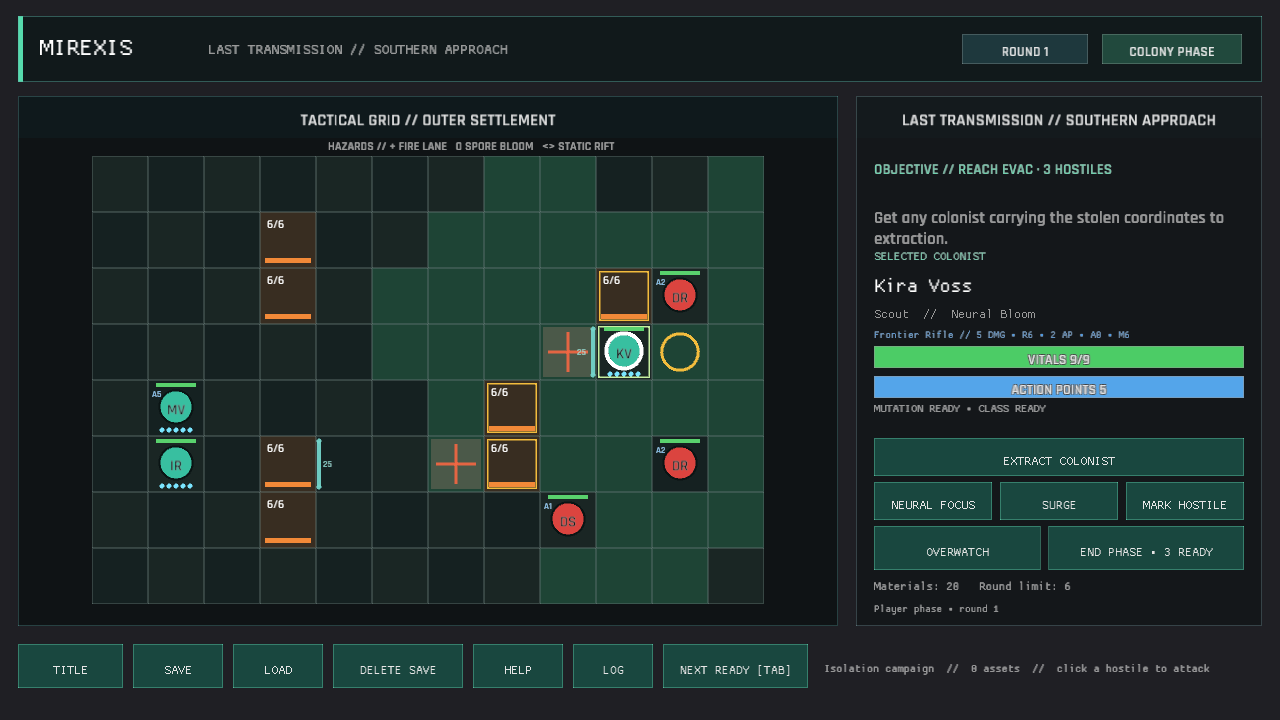
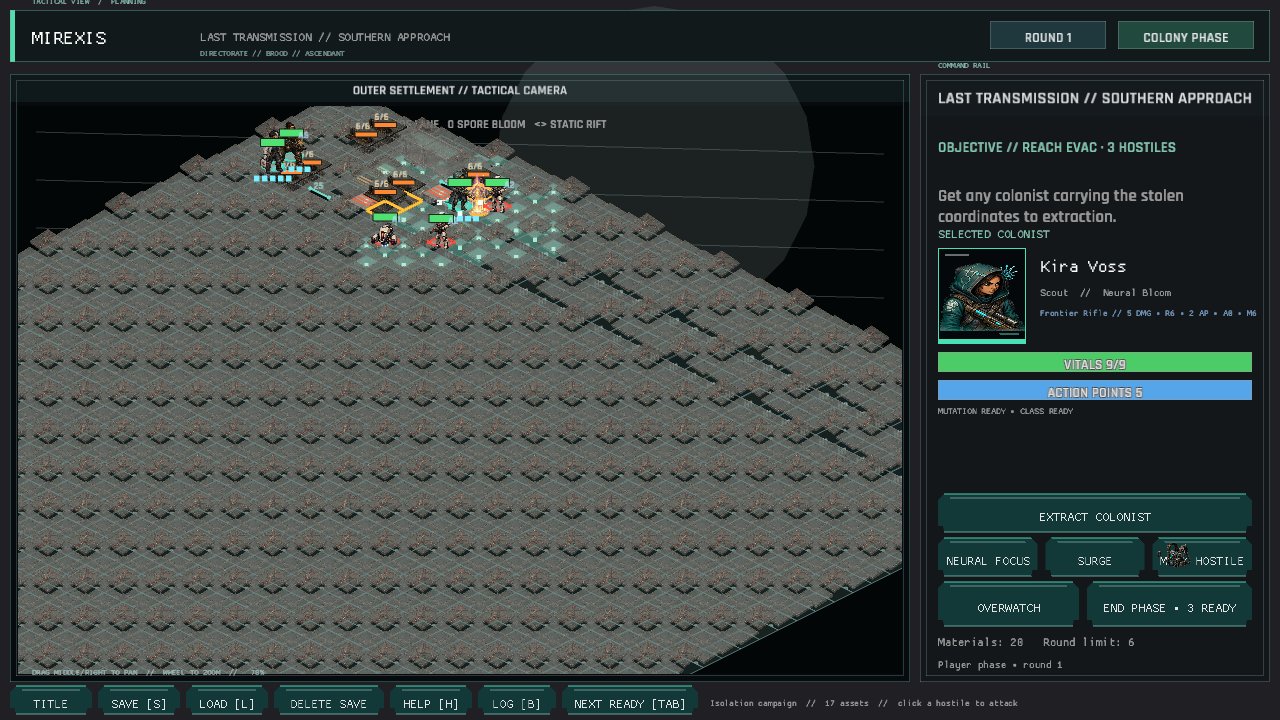
A southern approach is seen through a shifted lens (camera evidence capture and root-level matrix paths)
The capture suite showed only default camera framing, leaving pan and zoom behavior without a stable visual reference. Give the existing map-variant fixture an off-center 78 percent tactical camera while retaining its selected unit, objective, hazards, and action context.

Update acceptance-matrix evidence paths to the canonical docs/verification root and adjust the manifest-document parity test to enforce that root-only convention. The refreshed ui_variant.png now proves a transformed camera view without adding duplicate capture folders. Verified with 166 crate tests, the source-size gate, strict Clippy, and direct image inspection.

diff --git a/src/game/capture_scenes.rs b/src/game/capture_scenes.rs
@@ -662,6 +662,12 @@ impl Game {
 
     fn capture_map_variant(&mut self) {
         self.configure_extraction(3, "LAST TRANSMISSION // SOUTHERN APPROACH");
+        let selected = self.session.tactical.selected_tile;
+        self.tactical_camera = crate::grid_ui::WorldCamera::tactical_view(
+            TilePos::new(selected.x + 7, selected.y + 7),
+            selected,
+            0.78,
+        );
     }
 
     fn configure_extraction(&mut self, seed: u64, name: &str) {
@@ -791,7 +797,7 @@ mod tests {
         let documented = matrix
             .lines()
             .filter_map(|line| {
-                let marker = "`ui_overhaul_final/ui_";
+                let marker = "`ui_";
                 let start = line.find(marker)? + marker.len();
                 let end = line[start..].find(".png`")? + start;
                 Some(&line[start..end])

diff --git a/src/grid_ui.rs b/src/grid_ui.rs
@@ -24,6 +24,15 @@ impl WorldCamera {
         }
     }
 
+    pub(crate) fn tactical_view(center_tile: TilePos, tracked_tile: TilePos, zoom: f32) -> Self {
+        Self {
+            center: projected_tile(center_tile, TACTICAL_HALF_WIDTH, TACTICAL_HALF_HEIGHT),
+            zoom: zoom.clamp(0.65, 1.85),
+            drag_anchor: None,
+            tracked_tile: Some(tracked_tile),
+        }
+    }
+
     pub(crate) fn colony_start(position: [i32; 2]) -> Self {
         Self {
             center: projected_tile(

diff --git a/docs/verification/UI_GRAPHICS_ACCEPTANCE_MATRIX.md b/docs/verification/UI_GRAPHICS_ACCEPTANCE_MATRIX.md
@@ -62,91 +62,91 @@ Each row must have a post-overhaul PNG in the final capture directory and pass t
 
 | Scene | Surface | Baseline principal defect | Final evidence | Status |
 |---|---|---|---|---|
-| title | Title | Geometric tableau / weak world art | `ui_overhaul_final/ui_title.png` | PASS |
-| title_controller | Title/controller focus | No visible gamepad focus or controller-specific confirmation cue | `ui_overhaul_final/ui_title_controller.png` | PASS |
-| title_hover | Title/mouse hover | Hover treatment not represented in deterministic evidence | `ui_overhaul_final/ui_title_hover.png` | PASS |
-| colony | Colony | Prototype island lacks full inhabited/state detail | `ui_overhaul_final/ui_colony.png` | PASS |
-| contact | Colony event | Text and grid dominate event identity | `ui_overhaul_final/ui_contact.png` | PASS |
-| contact_gear | Roster/equipment | No authored equipment art | `ui_overhaul_final/ui_contact_gear.png` | PASS |
-| contact_event | Colony event | Weak event illustration and hierarchy | `ui_overhaul_final/ui_contact_event.png` | PASS |
-| adaptation | Colony | Phase evolution primarily textual | `ui_overhaul_final/ui_adaptation.png` | PASS |
-| gene_lab | Gene lab | No illustrated mutation anatomy | `ui_overhaul_final/ui_gene_lab.png` | PASS |
-| evolution | Roster/gene lab | Evolution visible mainly as text | `ui_overhaul_final/ui_evolution.png` | PASS |
-| mara_evolution | Gene lab | No recruit-specific evolved portrait/sprite cue | `ui_overhaul_final/ui_mara_evolution.png` | PASS |
-| ilya_evolution | Gene lab | No recruit-specific evolved portrait/sprite cue | `ui_overhaul_final/ui_ilya_evolution.png` | PASS |
-| sol_evolution | Gene lab | No recruit-specific evolved portrait/sprite cue | `ui_overhaul_final/ui_sol_evolution.png` | PASS |
-| nadi_evolution | Gene lab | No recruit-specific evolved portrait/sprite cue | `ui_overhaul_final/ui_nadi_evolution.png` | PASS |
-| escalation | Colony | Campaign visual evolution too weak | `ui_overhaul_final/ui_escalation.png` | PASS |
-| escalation_operation | Briefing | Same text modal language | `ui_overhaul_final/ui_escalation_operation.png` | PASS |
-| escalation_response | Campaign event | Choice identity mainly textual | `ui_overhaul_final/ui_escalation_response.png` | PASS |
-| mirexis | Colony | Late-game hybridisation too weak | `ui_overhaul_final/ui_mirexis.png` | PASS |
-| mirexis_path | Campaign choice | Path identity mainly textual | `ui_overhaul_final/ui_mirexis_path.png` | PASS |
-| redoubt_end | Ending | Ending reuses colony grid | `ui_overhaul_final/ui_redoubt_end.png` | PASS |
-| commonwealth_end | Ending | Ending reuses colony grid | `ui_overhaul_final/ui_commonwealth_end.png` | PASS |
-| threshold_end | Ending | Ending reuses colony grid | `ui_overhaul_final/ui_threshold_end.png` | PASS |
-| finale_debrief | Debrief | Sparse text modal | `ui_overhaul_final/ui_finale_debrief.png` | PASS |
-| adaptation_operation | Briefing | Weak mission scene identity | `ui_overhaul_final/ui_adaptation_operation.png` | PASS |
-| glass_nerve | Tactical | Flat rectangular battlefield | `ui_overhaul_final/ui_glass_nerve.png` | PASS |
-| three_knives | Tactical | Flat rectangular battlefield | `ui_overhaul_final/ui_three_knives.png` | PASS |
-| reinforcement_warning | Tactical/reinforcement | Entry warning lacks authored staging | `ui_overhaul_final/ui_reinforcement_warning.png` | PASS |
-| line_formation | Tactical | Formation lacks sprite population/scale | `ui_overhaul_final/ui_line_formation.png` | PASS |
-| thin_shelter | Tactical/objective | Structure/objective lacks dimensional identity | `ui_overhaul_final/ui_thin_shelter.png` | PASS |
-| breakwater | Tactical | Mission art sameness | `ui_overhaul_final/ui_breakwater.png` | PASS |
-| false_heart | Tactical | Mission art sameness | `ui_overhaul_final/ui_false_heart.png` | PASS |
-| live_wire | Tactical | Mission art sameness | `ui_overhaul_final/ui_live_wire.png` | PASS |
-| last_wall | Tactical | Mission art sameness | `ui_overhaul_final/ui_last_wall.png` | PASS |
-| root_choir | Tactical | Mission art sameness | `ui_overhaul_final/ui_root_choir.png` | PASS |
-| door_of_light | Tactical | Mission art sameness | `ui_overhaul_final/ui_door_of_light.png` | PASS |
-| damage | Colony | Damage is a label/colour state, not damaged architecture | `ui_overhaul_final/ui_damage.png` | PASS |
-| repair | Colony | Restored architecture and repair feedback were not captured explicitly | `ui_overhaul_final/ui_repair.png` | PASS |
-| power | Colony | Unpowered state lacks environmental response | `ui_overhaul_final/ui_power.png` | PASS |
-| construction | Colony | Construction state lacks authored staging | `ui_overhaul_final/ui_construction.png` | PASS |
-| research | Research | Weak technology art and hierarchy | `ui_overhaul_final/ui_research.png` | PASS |
-| roster | Roster | Procedural portrait and dense controls | `ui_overhaul_final/ui_roster.png` | PASS |
-| advanced_roster | Roster | Class change lacks silhouette transformation | `ui_overhaul_final/ui_advanced_roster.png` | PASS |
-| relationships | Relationships | Bonds are text-led | `ui_overhaul_final/ui_relationships.png` | PASS |
-| trauma | Roster | Injury is text-led | `ui_overhaul_final/ui_trauma.png` | PASS |
-| bonded_briefing | Briefing/relationships | No portrait-led relationship cue | `ui_overhaul_final/ui_bonded_briefing.png` | PASS |
-| legacy | Roster | Legacy state lacks visual identity | `ui_overhaul_final/ui_legacy.png` | PASS |
-| briefing | Briefing | Text-heavy with little mission art | `ui_overhaul_final/ui_briefing.png` | PASS |
-| threat_briefing | Briefing | Threat hierarchy and faction art weak | `ui_overhaul_final/ui_threat_briefing.png` | PASS |
-| loadout_briefing | Briefing/loadout | Equipment is text-only | `ui_overhaul_final/ui_loadout_briefing.png` | PASS |
-| pressure | Colony | Pressure state primarily textual | `ui_overhaul_final/ui_pressure.png` | PASS |
-| gameplay | Tactical | Flat rectangular board / procedural units | `ui_overhaul_final/ui_gameplay.png` | PASS |
-| overwatch | Tactical | State cue small and static | `ui_overhaul_final/ui_overwatch.png` | PASS |
-| brood_ability | Tactical/effect | No production Brood effect language | `ui_overhaul_final/ui_brood_ability.png` | PASS |
-| directorate_ability | Tactical/effect | No production Directorate effect language | `ui_overhaul_final/ui_directorate_ability.png` | PASS |
-| ascendant_ability | Tactical/effect | No production Ascendant effect language | `ui_overhaul_final/ui_ascendant_ability.png` | PASS |
-| hazard | Tactical/hazard | Flat hazard marks | `ui_overhaul_final/ui_hazard.png` | PASS |
-| intent | Tactical/forecast | Intent is small text/line | `ui_overhaul_final/ui_intent.png` | PASS |
-| action_preview | Tactical/forecast | Preview lacks portrait comparison/staging | `ui_overhaul_final/ui_action_preview.png` | PASS |
-| movement_route | Tactical/route | Route conforms to rectangles | `ui_overhaul_final/ui_movement_route.png` | PASS |
-| cover_edges | Tactical/cover | Cover is shallow procedural geometry | `ui_overhaul_final/ui_cover_edges.png` | PASS |
-| invalid_command | Tactical/feedback | Weak authored rejection feedback | `ui_overhaul_final/ui_invalid_command.png` | PASS |
-| valid_shot | Tactical/forecast | Weak attack comparison | `ui_overhaul_final/ui_valid_shot.png` | PASS |
-| threat_range | Tactical/overlay | Rectangular threat overlay | `ui_overhaul_final/ui_threat_range.png` | PASS |
-| danger_reach | Tactical/overlay | Rectangular danger overlay | `ui_overhaul_final/ui_danger_reach.png` | PASS |
-| help | Help | Dense small-text modal | `ui_overhaul_final/ui_help.png` | PASS |
-| battle_log | Battle log | Plain chronological text | `ui_overhaul_final/ui_battle_log.png` | PASS |
-| combat_feedback | Tactical/feedback | Minimal impact/recoil/critical treatment | `ui_overhaul_final/ui_combat_feedback.png` | PASS |
-| phase_replay | Tactical/replay | Weak replay staging | `ui_overhaul_final/ui_phase_replay.png` | PASS |
-| end_phase_guard | Tactical/warning | Warning hierarchy is small | `ui_overhaul_final/ui_end_phase_guard.png` | PASS |
-| readiness_markers | Tactical/unit state | Tiny state markers | `ui_overhaul_final/ui_readiness_markers.png` | PASS |
-| vitality_markers | Tactical/unit state | Tiny state markers | `ui_overhaul_final/ui_vitality_markers.png` | PASS |
-| extraction | Tactical/objective | Objective tile lacks dimensional beacon | `ui_overhaul_final/ui_extraction.png` | PASS |
-| variant | Tactical/map | Variant differentiation remains low | `ui_overhaul_final/ui_variant.png` | PASS |
-| sporefield | Tactical/hazard | Brood biome/effect language weak | `ui_overhaul_final/ui_sporefield.png` | PASS |
-| vault | Tactical/map | Ascendant biome/effect language weak | `ui_overhaul_final/ui_vault.png` | PASS |
-| black_channel | Tactical/map | Directorate biome/effect language weak | `ui_overhaul_final/ui_black_channel.png` | PASS |
-| living_chorus | Tactical/map | Late-game hybrid map language weak | `ui_overhaul_final/ui_living_chorus.png` | PASS |
-| open_circuit | Tactical/map | Late-game hybrid map language weak | `ui_overhaul_final/ui_open_circuit.png` | PASS |
-| trace_active | Tactical/objective | Relay activation lacks staging | `ui_overhaul_final/ui_trace_active.png` | PASS |
-| equipment | Tactical/equipment | No equipment art or rich target comparison | `ui_overhaul_final/ui_equipment.png` | PASS |
-| weapon_profile | Tactical/equipment | Profile is text-only | `ui_overhaul_final/ui_weapon_profile.png` | PASS |
-| class_target | Tactical/class action | Targeting cue remains rectangular | `ui_overhaul_final/ui_class_target.png` | PASS |
-| breach | Tactical/cover feedback | Breach effect lacks authored impact | `ui_overhaul_final/ui_breach.png` | PASS |
-| debrief | Debrief | Sparse outcome modal | `ui_overhaul_final/ui_debrief.png` | PASS |
-| trauma_debrief | Debrief | Trauma consequence lacks portrait response | `ui_overhaul_final/ui_trauma_debrief.png` | PASS |
+| title | Title | Geometric tableau / weak world art | `ui_title.png` | PASS |
+| title_controller | Title/controller focus | No visible gamepad focus or controller-specific confirmation cue | `ui_title_controller.png` | PASS |
+| title_hover | Title/mouse hover | Hover treatment not represented in deterministic evidence | `ui_title_hover.png` | PASS |
+| colony | Colony | Prototype island lacks full inhabited/state detail | `ui_colony.png` | PASS |
+| contact | Colony event | Text and grid dominate event identity | `ui_contact.png` | PASS |
+| contact_gear | Roster/equipment | No authored equipment art | `ui_contact_gear.png` | PASS |
+| contact_event | Colony event | Weak event illustration and hierarchy | `ui_contact_event.png` | PASS |
+| adaptation | Colony | Phase evolution primarily textual | `ui_adaptation.png` | PASS |
+| gene_lab | Gene lab | No illustrated mutation anatomy | `ui_gene_lab.png` | PASS |
+| evolution | Roster/gene lab | Evolution visible mainly as text | `ui_evolution.png` | PASS |
+| mara_evolution | Gene lab | No recruit-specific evolved portrait/sprite cue | `ui_mara_evolution.png` | PASS |
+| ilya_evolution | Gene lab | No recruit-specific evolved portrait/sprite cue | `ui_ilya_evolution.png` | PASS |
+| sol_evolution | Gene lab | No recruit-specific evolved portrait/sprite cue | `ui_sol_evolution.png` | PASS |
+| nadi_evolution | Gene lab | No recruit-specific evolved portrait/sprite cue | `ui_nadi_evolution.png` | PASS |
+| escalation | Colony | Campaign visual evolution too weak | `ui_escalation.png` | PASS |
+| escalation_operation | Briefing | Same text modal language | `ui_escalation_operation.png` | PASS |
+| escalation_response | Campaign event | Choice identity mainly textual | `ui_escalation_response.png` | PASS |
+| mirexis | Colony | Late-game hybridisation too weak | `ui_mirexis.png` | PASS |
+| mirexis_path | Campaign choice | Path identity mainly textual | `ui_mirexis_path.png` | PASS |
+| redoubt_end | Ending | Ending reuses colony grid | `ui_redoubt_end.png` | PASS |
+| commonwealth_end | Ending | Ending reuses colony grid | `ui_commonwealth_end.png` | PASS |
+| threshold_end | Ending | Ending reuses colony grid | `ui_threshold_end.png` | PASS |
+| finale_debrief | Debrief | Sparse text modal | `ui_finale_debrief.png` | PASS |
+| adaptation_operation | Briefing | Weak mission scene identity | `ui_adaptation_operation.png` | PASS |
+| glass_nerve | Tactical | Flat rectangular battlefield | `ui_glass_nerve.png` | PASS |
+| three_knives | Tactical | Flat rectangular battlefield | `ui_three_knives.png` | PASS |
+| reinforcement_warning | Tactical/reinforcement | Entry warning lacks authored staging | `ui_reinforcement_warning.png` | PASS |
+| line_formation | Tactical | Formation lacks sprite population/scale | `ui_line_formation.png` | PASS |
+| thin_shelter | Tactical/objective | Structure/objective lacks dimensional identity | `ui_thin_shelter.png` | PASS |
+| breakwater | Tactical | Mission art sameness | `ui_breakwater.png` | PASS |
+| false_heart | Tactical | Mission art sameness | `ui_false_heart.png` | PASS |
+| live_wire | Tactical | Mission art sameness | `ui_live_wire.png` | PASS |
+| last_wall | Tactical | Mission art sameness | `ui_last_wall.png` | PASS |
+| root_choir | Tactical | Mission art sameness | `ui_root_choir.png` | PASS |
+| door_of_light | Tactical | Mission art sameness | `ui_door_of_light.png` | PASS |
+| damage | Colony | Damage is a label/colour state, not damaged architecture | `ui_damage.png` | PASS |
+| repair | Colony | Restored architecture and repair feedback were not captured explicitly | `ui_repair.png` | PASS |
+| power | Colony | Unpowered state lacks environmental response | `ui_power.png` | PASS |
+| construction | Colony | Construction state lacks authored staging | `ui_construction.png` | PASS |
+| research | Research | Weak technology art and hierarchy | `ui_research.png` | PASS |
+| roster | Roster | Procedural portrait and dense controls | `ui_roster.png` | PASS |
+| advanced_roster | Roster | Class change lacks silhouette transformation | `ui_advanced_roster.png` | PASS |
+| relationships | Relationships | Bonds are text-led | `ui_relationships.png` | PASS |
+| trauma | Roster | Injury is text-led | `ui_trauma.png` | PASS |
+| bonded_briefing | Briefing/relationships | No portrait-led relationship cue | `ui_bonded_briefing.png` | PASS |
+| legacy | Roster | Legacy state lacks visual identity | `ui_legacy.png` | PASS |
+| briefing | Briefing | Text-heavy with little mission art | `ui_briefing.png` | PASS |
+| threat_briefing | Briefing | Threat hierarchy and faction art weak | `ui_threat_briefing.png` | PASS |
+| loadout_briefing | Briefing/loadout | Equipment is text-only | `ui_loadout_briefing.png` | PASS |
+| pressure | Colony | Pressure state primarily textual | `ui_pressure.png` | PASS |
+| gameplay | Tactical | Flat rectangular board / procedural units | `ui_gameplay.png` | PASS |
+| overwatch | Tactical | State cue small and static | `ui_overwatch.png` | PASS |
+| brood_ability | Tactical/effect | No production Brood effect language | `ui_brood_ability.png` | PASS |
+| directorate_ability | Tactical/effect | No production Directorate effect language | `ui_directorate_ability.png` | PASS |
+| ascendant_ability | Tactical/effect | No production Ascendant effect language | `ui_ascendant_ability.png` | PASS |
+| hazard | Tactical/hazard | Flat hazard marks | `ui_hazard.png` | PASS |
+| intent | Tactical/forecast | Intent is small text/line | `ui_intent.png` | PASS |
+| action_preview | Tactical/forecast | Preview lacks portrait comparison/staging | `ui_action_preview.png` | PASS |
+| movement_route | Tactical/route | Route conforms to rectangles | `ui_movement_route.png` | PASS |
+| cover_edges | Tactical/cover | Cover is shallow procedural geometry | `ui_cover_edges.png` | PASS |
+| invalid_command | Tactical/feedback | Weak authored rejection feedback | `ui_invalid_command.png` | PASS |
+| valid_shot | Tactical/forecast | Weak attack comparison | `ui_valid_shot.png` | PASS |
+| threat_range | Tactical/overlay | Rectangular threat overlay | `ui_threat_range.png` | PASS |
+| danger_reach | Tactical/overlay | Rectangular danger overlay | `ui_danger_reach.png` | PASS |
+| help | Help | Dense small-text modal | `ui_help.png` | PASS |
+| battle_log | Battle log | Plain chronological text | `ui_battle_log.png` | PASS |
+| combat_feedback | Tactical/feedback | Minimal impact/recoil/critical treatment | `ui_combat_feedback.png` | PASS |
+| phase_replay | Tactical/replay | Weak replay staging | `ui_phase_replay.png` | PASS |
+| end_phase_guard | Tactical/warning | Warning hierarchy is small | `ui_end_phase_guard.png` | PASS |
+| readiness_markers | Tactical/unit state | Tiny state markers | `ui_readiness_markers.png` | PASS |
+| vitality_markers | Tactical/unit state | Tiny state markers | `ui_vitality_markers.png` | PASS |
+| extraction | Tactical/objective | Objective tile lacks dimensional beacon | `ui_extraction.png` | PASS |
+| variant | Tactical/map | Variant differentiation remains low | `ui_variant.png` | PASS |
+| sporefield | Tactical/hazard | Brood biome/effect language weak | `ui_sporefield.png` | PASS |
+| vault | Tactical/map | Ascendant biome/effect language weak | `ui_vault.png` | PASS |
+| black_channel | Tactical/map | Directorate biome/effect language weak | `ui_black_channel.png` | PASS |
+| living_chorus | Tactical/map | Late-game hybrid map language weak | `ui_living_chorus.png` | PASS |
+| open_circuit | Tactical/map | Late-game hybrid map language weak | `ui_open_circuit.png` | PASS |
+| trace_active | Tactical/objective | Relay activation lacks staging | `ui_trace_active.png` | PASS |
+| equipment | Tactical/equipment | No equipment art or rich target comparison | `ui_equipment.png` | PASS |
+| weapon_profile | Tactical/equipment | Profile is text-only | `ui_weapon_profile.png` | PASS |
+| class_target | Tactical/class action | Targeting cue remains rectangular | `ui_class_target.png` | PASS |
+| breach | Tactical/cover feedback | Breach effect lacks authored impact | `ui_breach.png` | PASS |
+| debrief | Debrief | Sparse outcome modal | `ui_debrief.png` | PASS |
+| trauma_debrief | Debrief | Trauma consequence lacks portrait response | `ui_trauma_debrief.png` | PASS |
 
 ## D. Final comparison and validation record
 
